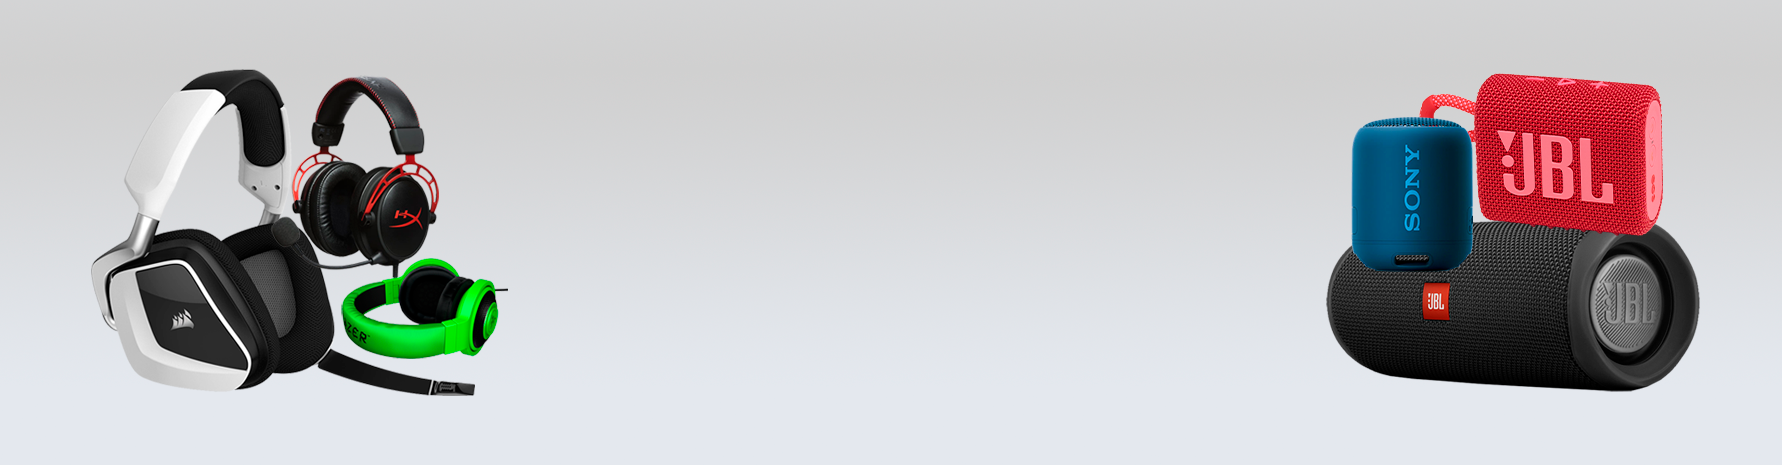
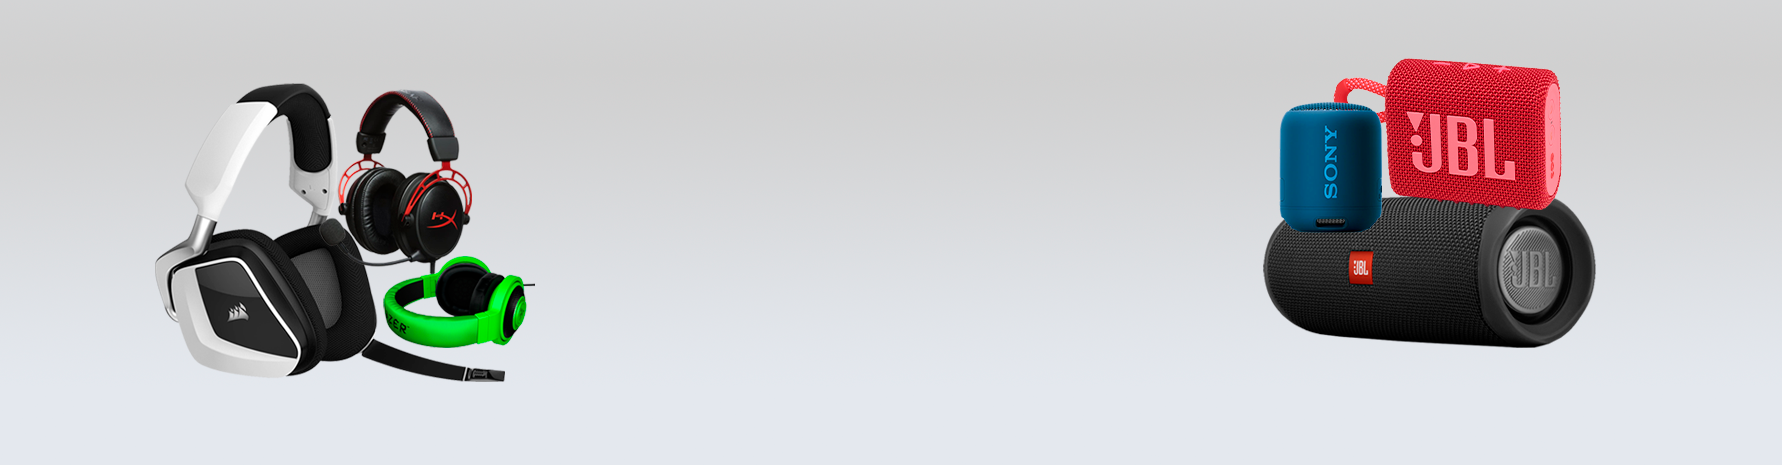
start Responsive index

Changed region(s): [[0.7099, 0.1204, 0.9568, 0.843], [0.0309, 0.1505, 0.3086, 0.8731]]

diff --git a/css/header.css b/css/header.css
@@ -140,6 +140,7 @@ body {
   margin: 0 auto;
   justify-content: space-between;
   align-items: center;
+  transition: all 0.2s ease 0s;
 }
 
 .nav__menu ul {
@@ -219,10 +220,11 @@ body {
 }
 
 .container__carousel-banner {
-  display: flex;
-  max-width: 1200px;
-  align-items: center;
-  justify-content: center;
+  /* display: flex; */
+  width: 100%;
+  max-width: 1300px;
+  /* align-items: center;
+  justify-content: center; */
 }
 
 .banner__carousel-content {
@@ -308,14 +310,14 @@ body {
 }
 
 .banner__area-content-image img {
-  width: 97%;
+  width: 100%;
   height: 100%;
 }
 
 /*! <--------- Features Section --------->*/
 
 .features {
-  padding: 40px 0;
+  padding: 40px 38px;
   width: 100%;
   margin: 0 auto;
 }
@@ -332,18 +334,23 @@ body {
 .features__content {
   display: grid;
   grid-template-columns: 1fr 1fr 1fr 1fr;
-  grid-gap: 5px;
+  grid-gap: 44px;
   justify-content: center;
   align-items: center;
   width: 100%;
   margin: 0 auto;
   max-width: 1200px;
+  transition: all 0.2s;
 }
 
 .features__content-card {
-  height: 150px;
+  display: flex;
+  flex-direction: column;
+  justify-content: center;
+  align-items: center;
+  width: 100%;
+  height: 160px;
   padding: 26px;
-  margin: 0 20px;
   border-radius: 10px;
   text-align: center;
   background-color: var(--background-white);

diff --git a/css/responsive-index.css b/css/responsive-index.css
@@ -1,0 +1,45 @@
+@media screen and (max-width: 1170px) {
+  /* .header__area-content,
+  .header__area,
+  .features__content,
+  .new__products,
+  .products,
+  .joysticks,
+  .sounds,
+  .various {
+    max-width: 960px;
+  } */
+
+  .container__carousel-banner {
+    max-width: 980px;
+  }
+
+  .circle__cartshop {
+    width: 38px;
+    height: 38px;
+  }
+
+  .fa-cart-plus {
+    font-size: 18px;
+  }
+
+  .banner__area-content-text-title {
+    font-size: 40px;
+  }
+
+  .products__template-content-card {
+    margin: 0 16px;
+  }
+
+  .features__content {
+    grid-gap: 34px;
+  }
+
+  .new-products__carousel-content,
+  .consoles-products__carousel-content,
+  .joysticks-products__carousel-content,
+  .sounds-products__carousel-content,
+  .various-products__carousel-content {
+    height: 22rem;
+  }
+}

diff --git a/css/products.css b/css/products.css
@@ -24,7 +24,7 @@ body {
 /*! <--------- New Products Section --------->*/
 
 .new__products {
-  padding: 40px 0;
+  padding: 40px 18px;
   width: 100%;
   background-color: var(--background-white);
   margin: 0 auto;
@@ -34,10 +34,11 @@ body {
 .joysticks,
 .sounds,
 .various {
-  padding: 20px 0;
+  padding: 20px 18px;
   width: 100%;
   background-color: var(--background-white);
   margin: 0 auto;
+  transition: all 0.2s;
 }
 
 /*Controls Section*/
@@ -76,6 +77,7 @@ body {
   margin-bottom: 32px;
   max-width: 1200px;
   position: relative;
+  padding: 0 20px;
 }
 
 .new__products-title h2,

diff --git a/index.html b/index.html
@@ -48,6 +48,7 @@
     <link rel="stylesheet" href="css/products.css" />
     <link rel="stylesheet" href="css/modal-products-description.css" />
     <link rel="stylesheet" href="css/footer.css" />
+    <link rel="stylesheet" href="css/responsive-index.css" />
     
 
     <link

diff --git a/css/footer.css b/css/footer.css
@@ -31,6 +31,7 @@ body {
   height: 28rem;
   margin: 0 auto;
   margin-top: 20px;
+  padding: 0 36px;
   border-top: 4px solid var(--primary-red);
   background-color: var(--secondary-black);
 }

diff --git a/js/login-validation.js b/js/login-validation.js
@@ -88,6 +88,7 @@ const addUserIcon = () => {
 
     if (!user && urlPage === "./all-products.html") {
       showMessageError("Por favor, inicie sesión");
+      
     }
   }
 };
